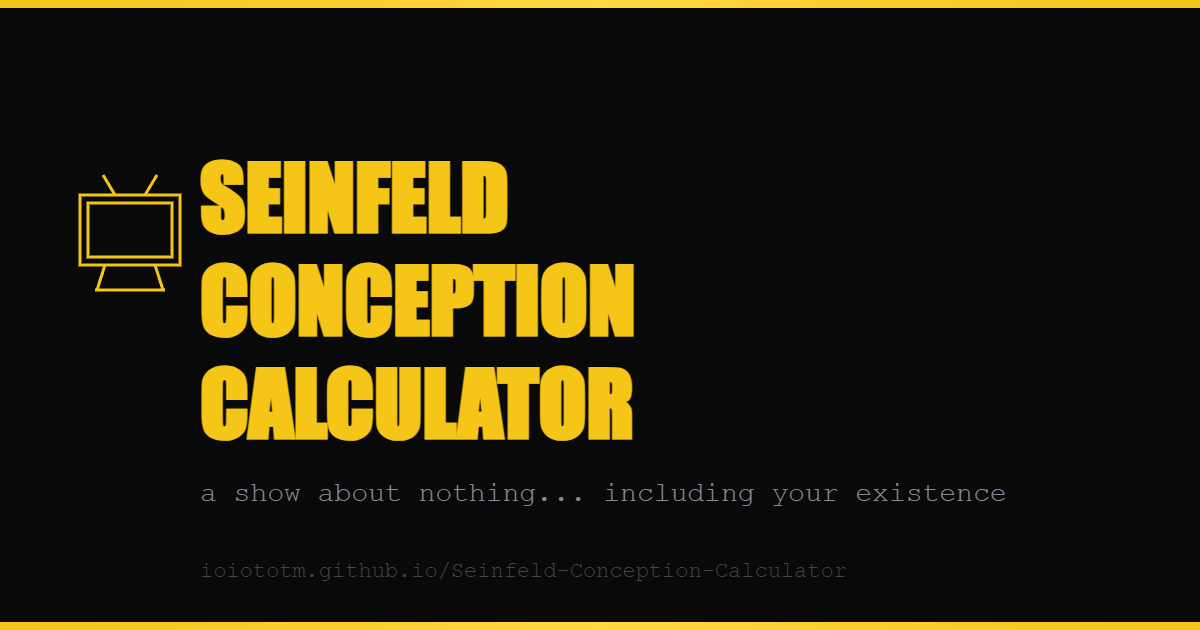
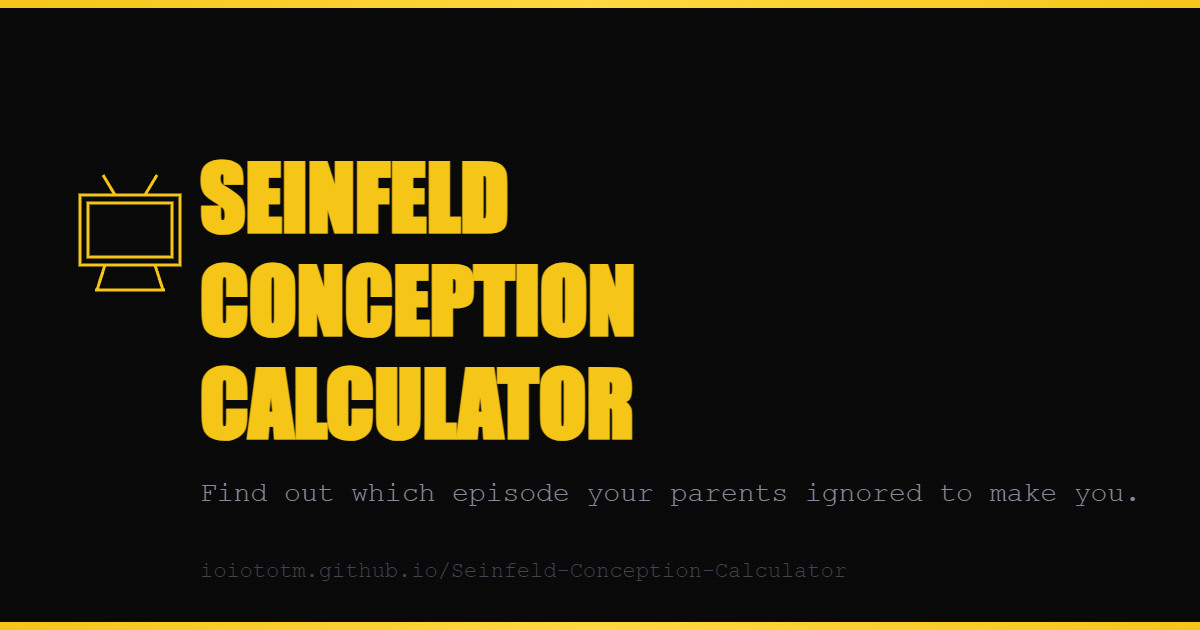
update image, rotation of sub-titles

diff --git a/index.html b/index.html
@@ -83,6 +83,8 @@
       font-size: 0.85rem;
       color: var(--muted);
       font-style: italic;
+      min-height: 1.3em;
+      transition: opacity 0.4s;
     }
 
     /* TV static decoration */
@@ -498,7 +500,7 @@
     </svg>
     <p class="header-eyebrow">a show about nothing... including your existence</p>
     <h1>Seinfeld Conception<br>Calculator</h1>
-    <p class="header-sub">Enter your birthday, we do the math: you're welcome.</p>
+    <p class="header-sub" id="tagline"></p>
   </header>
 
   <main>
@@ -1212,6 +1214,33 @@ calcBtn.addEventListener('click', handleCalculate);
 birthdayInput.addEventListener('keydown', e => {
   if (e.key === 'Enter') handleCalculate();
 });
+
+// ── Rotating taglines ────────────────────────────────────────
+const TAGLINES = [
+  "Because on that night, your parents weren't the masters of their domain.",
+  "They were watching a show about nothing. Then they did something.",
+  "Find out which episode your parents ignored to make you.",
+  "Find out which episode inspired your dad to use 'The Move'.",
+  "The episode your parents yada yada'd over.",
+  "Because they definitely weren't talking to each other.",
+];
+
+(function initTagline() {
+  const el = document.getElementById('tagline');
+  if (!el) return;
+  let idx = Math.floor(Math.random() * TAGLINES.length);
+  el.textContent = TAGLINES[idx];
+
+  setInterval(() => {
+    el.style.opacity = '0';
+    el.style.transition = 'opacity 0.4s';
+    setTimeout(() => {
+      idx = (idx + 1) % TAGLINES.length;
+      el.textContent = TAGLINES[idx];
+      el.style.opacity = '1';
+    }, 420);
+  }, 5000);
+})();
 </script>
 </body>
 </html>
